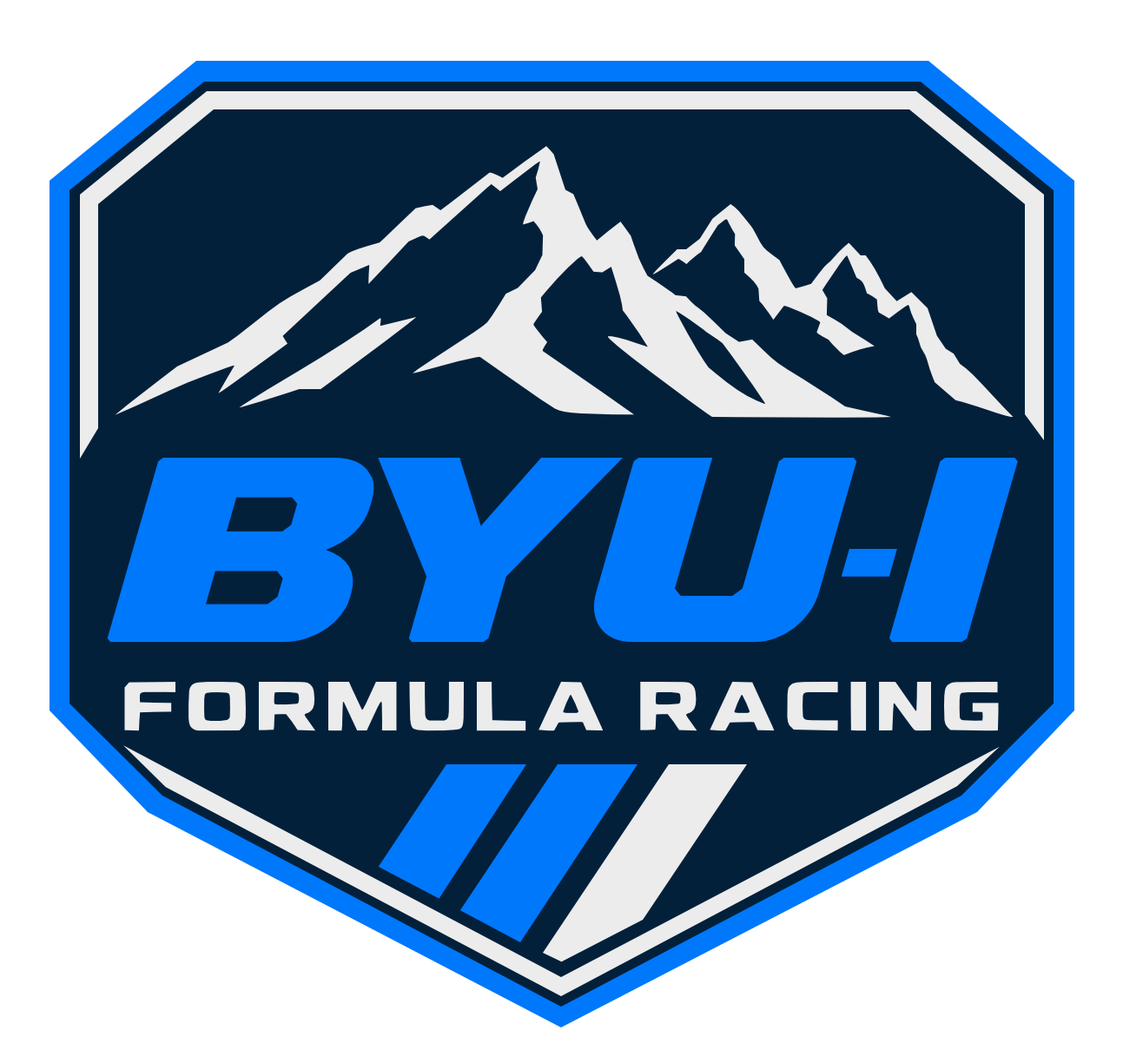
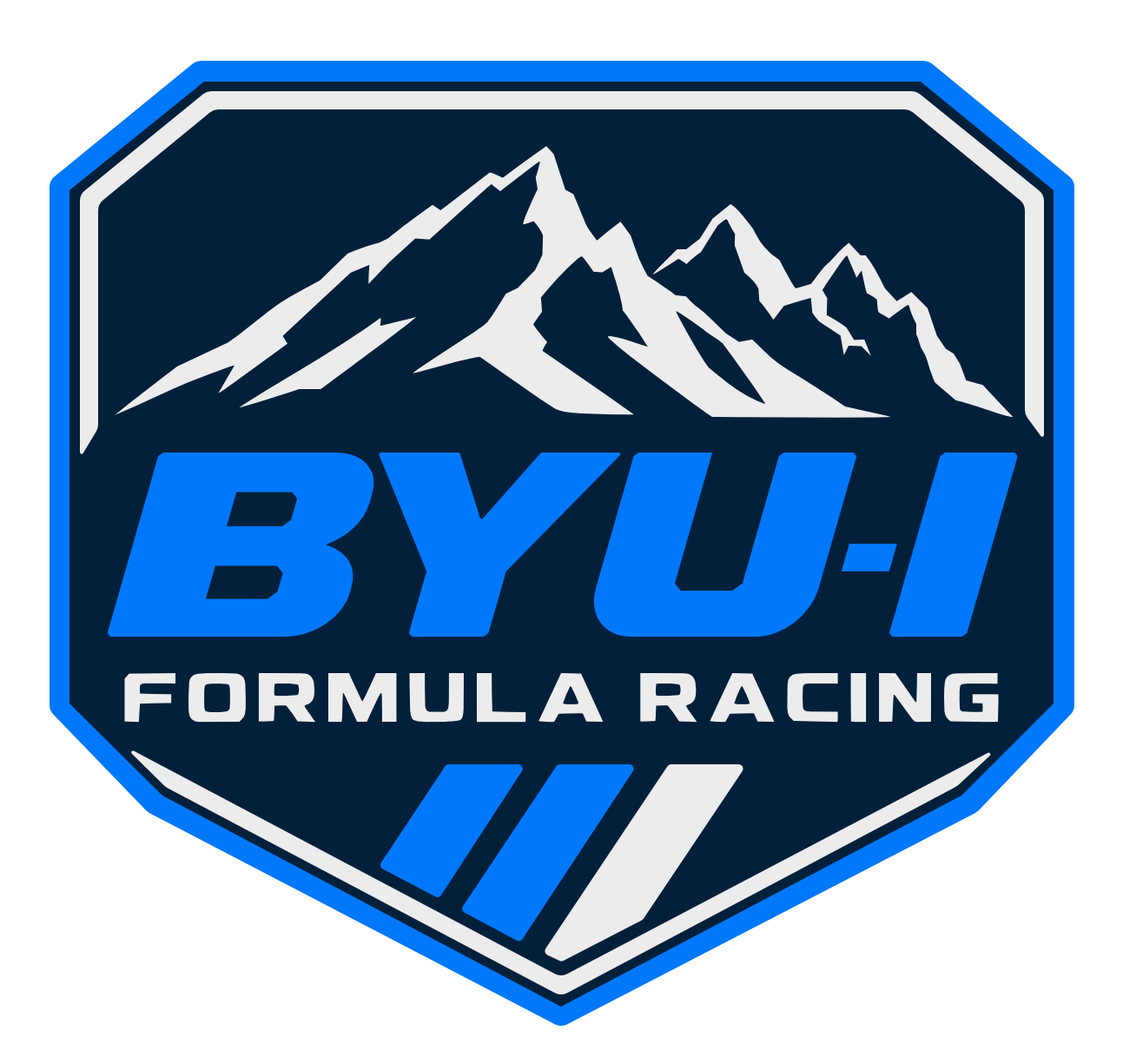
Optimize responsive photos and refresh hero and branding

diff --git a/about/index.html b/about/index.html
@@ -51,7 +51,7 @@
           <p class="lead">Unique to the BYU-I Formula Team is our commitment to both our studies and our dreams.</p>
         </div>
         <figure class="photo-figure">
-          <img class="team-photo" src="../assets/images/about/formula-car-tilt-test.webp" alt="A blue and white formula car tilted on a test platform with a helmeted driver strapped in" width="1375" height="1441" loading="lazy" decoding="async">
+          <img class="team-photo" src="../assets/images/about/optimized/formula-car-tilt-test-1375.webp" srcset="../assets/images/about/optimized/formula-car-tilt-test-480.webp 480w, ../assets/images/about/optimized/formula-car-tilt-test-800.webp 800w, ../assets/images/about/optimized/formula-car-tilt-test-1200.webp 1200w, ../assets/images/about/optimized/formula-car-tilt-test-1375.webp 1375w" sizes="auto, (max-width: 767px) calc(100vw - 2.5rem), (max-width: 1023px) calc(50vw - 2.5rem), (max-width: 1296px) calc(50vw - 4rem), 584px" alt="A blue and white formula car tilted on a test platform with a helmeted driver strapped in" width="1375" height="1441" loading="lazy" decoding="async">
         </figure>
       </div>
     </section>
@@ -86,7 +86,7 @@
             <div class="discipline-screen" id="mechanical-panel">
               <p class="discipline-label">01 / MECHANICAL</p>
               <h3>DESIGN. BUILD. TEST.</h3>
-              <img class="team-photo" src="../assets/images/about/mechanical-design-team.png" alt="Four students working together on laptops and a tablet around a classroom table" width="2602" height="1432" loading="lazy" decoding="async">
+              <img class="team-photo" src="../assets/images/about/optimized/mechanical-design-team-1600.webp" srcset="../assets/images/about/optimized/mechanical-design-team-480.webp 480w, ../assets/images/about/optimized/mechanical-design-team-800.webp 800w, ../assets/images/about/optimized/mechanical-design-team-1200.webp 1200w, ../assets/images/about/optimized/mechanical-design-team-1600.webp 1600w" sizes="auto, (max-width: 767px) calc(100vw - 2.5rem), (max-width: 1023px) calc(100vw - 3rem), (max-width: 1296px) calc(100vw - 6rem), 1200px" alt="Four students working together on laptops and a tablet around a classroom table" width="1600" height="881" loading="lazy" decoding="async">
             </div>
             <p class="discipline-copy">Mechanical work connects design ideas with the demands of a working car. From component layouts and CAD models to testing and refinement, the focus is on how parts fit, move, and perform together.</p>
           </div>
@@ -94,7 +94,7 @@
             <div class="discipline-screen" id="technical-panel">
               <p class="discipline-label">02 / TECHNICAL</p>
               <h3>MAKE IDEAS REAL.</h3>
-              <img class="team-photo" src="../assets/images/about/chassis-welding.png" alt="A student welding a formula-car chassis in the workshop as sparks fly from the frame" width="2739" height="1386" loading="lazy" decoding="async">
+              <img class="team-photo" src="../assets/images/about/optimized/chassis-welding-1600.webp" srcset="../assets/images/about/optimized/chassis-welding-480.webp 480w, ../assets/images/about/optimized/chassis-welding-800.webp 800w, ../assets/images/about/optimized/chassis-welding-1200.webp 1200w, ../assets/images/about/optimized/chassis-welding-1600.webp 1600w" sizes="auto, (max-width: 767px) calc(100vw - 2.5rem), (max-width: 1023px) calc(100vw - 3rem), (max-width: 1296px) calc(100vw - 6rem), 1200px" alt="A student welding a formula-car chassis in the workshop as sparks fly from the frame" width="1600" height="810" loading="lazy" decoding="async">
             </div>
             <p class="discipline-copy">Technical work turns drawings and plans into physical systems. Fabrication, assembly, and careful inspection bring the build together, with attention to safe workshop practices, clear procedures, and the details that make parts work as intended.</p>
           </div>
@@ -102,7 +102,7 @@
             <div class="discipline-screen" id="business-panel">
               <p class="discipline-label">03 / BUSINESS</p>
               <h3>PLAN. CONNECT. GROW.</h3>
-              <img class="team-photo" src="../assets/images/about/business-laptop-blurred.png" alt="Two students reviewing a laptop together in the workshop" width="1531" height="1027" loading="lazy" decoding="async">
+              <img class="team-photo" src="../assets/images/about/optimized/business-laptop-blurred-1531.webp" srcset="../assets/images/about/optimized/business-laptop-blurred-480.webp 480w, ../assets/images/about/optimized/business-laptop-blurred-800.webp 800w, ../assets/images/about/optimized/business-laptop-blurred-1200.webp 1200w, ../assets/images/about/optimized/business-laptop-blurred-1531.webp 1531w" sizes="auto, (max-width: 767px) calc(100vw - 2.5rem), (max-width: 1023px) calc(100vw - 3rem), (max-width: 1296px) calc(100vw - 6rem), 1200px" alt="Two students reviewing a laptop together in the workshop" width="1531" height="1027" loading="lazy" decoding="async">
             </div>
             <p class="discipline-copy">Business work keeps the project organised and connected. Planning, documentation, outreach, and in-kind partnerships help coordinate the people and resources behind the build while sharing the team’s work with the wider community.</p>
           </div>
@@ -110,7 +110,7 @@
             <div class="discipline-screen" id="electrical-panel">
               <p class="discipline-label">04 / ELECTRICAL</p>
               <h3>POWER THE PROJECT.</h3>
-              <img class="team-photo" src="../assets/images/about/electrical-workbench.png" alt="Three students examining wiring and electrical components on a worktable" width="1039" height="723" loading="lazy" decoding="async">
+              <img class="team-photo" src="../assets/images/about/optimized/electrical-workbench-1039.webp" srcset="../assets/images/about/optimized/electrical-workbench-480.webp 480w, ../assets/images/about/optimized/electrical-workbench-800.webp 800w, ../assets/images/about/optimized/electrical-workbench-1039.webp 1039w" sizes="auto, (max-width: 767px) calc(100vw - 2.5rem), (max-width: 1023px) calc(100vw - 3rem), (max-width: 1296px) calc(100vw - 6rem), 1200px" alt="Three students examining wiring and electrical components on a worktable" width="1039" height="723" loading="lazy" decoding="async">
             </div>
             <p class="discipline-copy">Electrical work connects power, wiring, sensing, and control. Understanding how low- and high-voltage systems interact helps guide thoughtful integration, troubleshooting, and testing, with careful attention to safety and communication across the team.</p>
           </div>
@@ -118,19 +118,15 @@
         </div>
       </div>
     </section>
-    <section class="section photo-section" aria-label="Engineering in focus">
-      <div class="container photo-grid">
-        <figure class="photo-figure" data-photo="fabrication">
-          <img class="team-photo" src="../assets/images/about/student-cad-design.png" alt="A student working on a CAD drawing on a laptop" width="2773" height="1843" loading="lazy" decoding="async">
-        </figure>
-        <figure class="photo-figure" data-photo="controls">
-          <img class="team-photo" src="../assets/images/about/students-reviewing-textbook.png" alt="Three students reviewing an open textbook together at a worktable" width="2752" height="1825" loading="lazy" decoding="async">
-        </figure>
-      </div>
-    </section>
     <!-- ABOUT 03 / PROJECT. Add confirmed milestones or measured data later. -->
     <section class="section" id="our-project" aria-labelledby="project-heading">
-      <div class="container car-grid">
+      <div class="container photo-grid project-grid">
+        <figure class="photo-figure" data-photo="fabrication">
+          <img class="team-photo" src="../assets/images/about/optimized/student-cad-design-1600.webp" srcset="../assets/images/about/optimized/student-cad-design-480.webp 480w, ../assets/images/about/optimized/student-cad-design-800.webp 800w, ../assets/images/about/optimized/student-cad-design-1200.webp 1200w, ../assets/images/about/optimized/student-cad-design-1600.webp 1600w" sizes="auto, (max-width: 767px) calc(100vw - 2.5rem), (max-width: 1023px) calc(50vw - 2.5rem), (max-width: 1296px) calc(50vw - 4rem), 584px" alt="A student working on a CAD drawing on a laptop" width="1600" height="1063" loading="lazy" decoding="async">
+        </figure>
+        <figure class="photo-figure" data-photo="controls">
+          <img class="team-photo" src="../assets/images/about/optimized/students-reviewing-textbook-1600.webp" srcset="../assets/images/about/optimized/students-reviewing-textbook-480.webp 480w, ../assets/images/about/optimized/students-reviewing-textbook-800.webp 800w, ../assets/images/about/optimized/students-reviewing-textbook-1200.webp 1200w, ../assets/images/about/optimized/students-reviewing-textbook-1600.webp 1600w" sizes="auto, (max-width: 767px) calc(100vw - 2.5rem), (max-width: 1023px) calc(50vw - 2.5rem), (max-width: 1296px) calc(50vw - 4rem), 584px" alt="Three students reviewing an open textbook together at a worktable" width="1600" height="1061" loading="lazy" decoding="async">
+        </figure>
         <div class="model-panel">
           <span class="eyebrow">BYU-I / Electric formula</span>
           <span class="model-name">VIKING.1</span>

diff --git a/index.html b/index.html
@@ -50,7 +50,7 @@
     <section class="section photo-section" aria-label="The car in pictures">
       <div class="container photo-stack">
         <figure class="photo-figure photo-wide car-render" data-photo="car">
-          <img class="team-photo" src="assets/images/home/formula-car-concept.webp" alt="Front view of a blue and white formula car concept render" width="1920" height="1080" loading="lazy" decoding="async">
+          <img class="team-photo" src="assets/images/home/optimized/formula-car-concept-1600.webp" srcset="assets/images/home/optimized/formula-car-concept-480.webp 480w, assets/images/home/optimized/formula-car-concept-800.webp 800w, assets/images/home/optimized/formula-car-concept-1200.webp 1200w, assets/images/home/optimized/formula-car-concept-1600.webp 1600w" sizes="auto, (max-width: 767px) calc(100vw - 2.5rem), (max-width: 1023px) calc(100vw - 3rem), (max-width: 1296px) calc(100vw - 6rem), 1200px" alt="Front view of a blue and white formula car concept render" width="1600" height="900" loading="lazy" decoding="async">
         </figure>
       </div>
     </section>
@@ -71,10 +71,10 @@
     <section class="section photo-section" aria-label="Life in the workshop">
       <div class="container photo-grid">
         <figure class="photo-figure" data-photo="team">
-          <img class="team-photo team-event-photo" src="assets/images/home/team-with-chassis-blurred.png" alt="BYU-I Formula Racing team members gathered around a car chassis at an indoor event" width="1085" height="1449" loading="lazy" decoding="async">
+          <img class="team-photo team-event-photo" src="assets/images/home/optimized/team-with-chassis-blurred-1085.webp" srcset="assets/images/home/optimized/team-with-chassis-blurred-480.webp 480w, assets/images/home/optimized/team-with-chassis-blurred-800.webp 800w, assets/images/home/optimized/team-with-chassis-blurred-1085.webp 1085w" sizes="auto, (max-width: 767px) calc(100vw - 2.5rem), (max-width: 1023px) calc(50vw - 2.5rem), (max-width: 1296px) calc(50vw - 4rem), 584px" alt="BYU-I Formula Racing team members gathered around a car chassis at an indoor event" width="1085" height="1449" loading="lazy" decoding="async">
         </figure>
         <figure class="photo-figure" data-photo="workshop">
-          <img class="team-photo" src="assets/images/home/car-in-workshop.jpeg" alt="A team member seated in the blue, white, and black formula car in the workshop" width="4032" height="3024" loading="lazy" decoding="async">
+          <img class="team-photo" src="assets/images/home/optimized/car-in-workshop-1600.webp" srcset="assets/images/home/optimized/car-in-workshop-480.webp 480w, assets/images/home/optimized/car-in-workshop-800.webp 800w, assets/images/home/optimized/car-in-workshop-1200.webp 1200w, assets/images/home/optimized/car-in-workshop-1600.webp 1600w" sizes="auto, (max-width: 767px) calc(100vw - 2.5rem), (max-width: 1023px) calc(50vw - 2.5rem), (max-width: 1296px) calc(50vw - 4rem), 584px" alt="A team member seated in the blue, white, and black formula car in the workshop" width="1600" height="1200" loading="lazy" decoding="async">
         </figure>
       </div>
     </section>
@@ -90,7 +90,7 @@
         <div class="subteam-slides" id="subteam-slides">
           <article class="subteam-slide" data-subteam-slide aria-labelledby="subteam-mechanical">
             <figure class="photo-figure" data-photo="fabrication">
-              <img class="team-photo" src="assets/images/home/mechanical-chassis-cad.webp" alt="A student reviews a formula-car chassis CAD model on a laptop in the workshop" width="1580" height="995" loading="lazy" decoding="async">
+              <img class="team-photo" src="assets/images/home/optimized/mechanical-chassis-cad-1580.webp" srcset="assets/images/home/optimized/mechanical-chassis-cad-480.webp 480w, assets/images/home/optimized/mechanical-chassis-cad-800.webp 800w, assets/images/home/optimized/mechanical-chassis-cad-1200.webp 1200w, assets/images/home/optimized/mechanical-chassis-cad-1580.webp 1580w" sizes="auto, (max-width: 767px) calc(100vw - 2.5rem), (max-width: 1023px) calc(50vw - 2.5rem), (max-width: 1296px) calc(50vw - 4rem), 584px" alt="A student reviews a formula-car chassis CAD model on a laptop in the workshop" width="1580" height="995" loading="lazy" decoding="async">
             </figure>
             <div class="subteam-copy">
               <h3 id="subteam-mechanical">MECHANICAL</h3>
@@ -99,7 +99,7 @@
           </article>
           <article class="subteam-slide" data-subteam-slide aria-labelledby="subteam-technical">
             <figure class="photo-figure">
-              <img class="team-photo" src="assets/images/home/technical-workshop-grinding.webp" alt="Two students wearing safety glasses work together as one uses an angle grinder on metal tubing in the workshop" width="1600" height="1040" loading="lazy" decoding="async">
+              <img class="team-photo" src="assets/images/home/optimized/technical-workshop-grinding-1600.webp" srcset="assets/images/home/optimized/technical-workshop-grinding-480.webp 480w, assets/images/home/optimized/technical-workshop-grinding-800.webp 800w, assets/images/home/optimized/technical-workshop-grinding-1200.webp 1200w, assets/images/home/optimized/technical-workshop-grinding-1600.webp 1600w" sizes="auto, (max-width: 767px) calc(100vw - 2.5rem), (max-width: 1023px) calc(50vw - 2.5rem), (max-width: 1296px) calc(50vw - 4rem), 584px" alt="Two students wearing safety glasses work together as one uses an angle grinder on metal tubing in the workshop" width="1600" height="1040" loading="lazy" decoding="async">
             </figure>
             <div class="subteam-copy">
               <h3 id="subteam-technical">TECHNICAL</h3>
@@ -108,7 +108,7 @@
           </article>
           <article class="subteam-slide" data-subteam-slide aria-labelledby="subteam-business">
             <figure class="photo-figure" data-photo="operations">
-              <img class="team-photo" src="assets/images/home/business-team-planning.webp" alt="Students discuss team structure and project planning at a workshop whiteboard" width="1600" height="1041" loading="lazy" decoding="async">
+              <img class="team-photo" src="assets/images/home/optimized/business-team-planning-1600.webp" srcset="assets/images/home/optimized/business-team-planning-480.webp 480w, assets/images/home/optimized/business-team-planning-800.webp 800w, assets/images/home/optimized/business-team-planning-1200.webp 1200w, assets/images/home/optimized/business-team-planning-1600.webp 1600w" sizes="auto, (max-width: 767px) calc(100vw - 2.5rem), (max-width: 1023px) calc(50vw - 2.5rem), (max-width: 1296px) calc(50vw - 4rem), 584px" alt="Students discuss team structure and project planning at a workshop whiteboard" width="1600" height="1041" loading="lazy" decoding="async">
             </figure>
             <div class="subteam-copy">
               <h3 id="subteam-business">BUSINESS</h3>
@@ -117,7 +117,7 @@
           </article>
           <article class="subteam-slide" data-subteam-slide aria-labelledby="subteam-electrical">
             <figure class="photo-figure" data-photo="controls">
-              <img class="team-photo" src="assets/images/home/electrical-team-electronics.webp" alt="Two students discuss electronic components at a workbench, with one holding a small circuit assembly" width="1376" height="1143" loading="lazy" decoding="async">
+              <img class="team-photo" src="assets/images/home/optimized/electrical-team-electronics-1376.webp" srcset="assets/images/home/optimized/electrical-team-electronics-480.webp 480w, assets/images/home/optimized/electrical-team-electronics-800.webp 800w, assets/images/home/optimized/electrical-team-electronics-1200.webp 1200w, assets/images/home/optimized/electrical-team-electronics-1376.webp 1376w" sizes="auto, (max-width: 767px) calc(100vw - 2.5rem), (max-width: 1023px) calc(50vw - 2.5rem), (max-width: 1296px) calc(50vw - 4rem), 584px" alt="Two students discuss electronic components at a workbench, with one holding a small circuit assembly" width="1376" height="1143" loading="lazy" decoding="async">
             </figure>
             <div class="subteam-copy">
               <h3 id="subteam-electrical">ELECTRICAL</h3>

diff --git a/assets/css/site.css b/assets/css/site.css
@@ -127,12 +127,12 @@ details[open] > summary .dropdown-chevron { transform: rotate(180deg); }
 .hero h1, .hero h2, .hero h3 { color: white; }
 /* Straight page dividers use the same stripe widths as the homepage diagonal. */
 .hero::after { content: ""; position: absolute; bottom: 0; right: 0; width: 100%; height: 1rem; background: linear-gradient(to bottom, var(--brand-blue) 0 .5rem, var(--brand-navy) .5rem .75rem, var(--racing-silver) .75rem); pointer-events: none; }
-.home-hero { padding-bottom: max(11rem, calc(9vw + 7rem)); border-bottom: 0; }
-.home-hero::before { content: ""; position: absolute; inset: 0; background-image: linear-gradient(90deg, #031f3de6 0%, #031f3db3 35%, #031f3d66 60%, #031f3d1a 100%), url("../images/home/team-hero.jpeg"); background-size: cover; background-position: center 35%; pointer-events: none; }
+.home-hero { padding-bottom: max(11rem, calc(9vw + 7rem)); border-bottom: 0; min-height: calc(var(--header-offset) + 28vw + 9rem); }
+.home-hero::before { content: ""; position: absolute; inset: 0; background-image: linear-gradient(90deg, #031f3de6 0%, #031f3db3 35%, #031f3d66 60%, #031f3d1a 100%), url("../images/home/byui-formula-team-hero.webp"); background-size: 100% 100%, cover; background-position: center, center 42%; background-repeat: no-repeat; pointer-events: none; }
 /* Draw the diagonal directly with one-pixel transitions to soften its edges. */
 .home-hero::after {
   width: 100%; height: calc(9vw + 1.5rem); bottom: 0;
-  background: linear-gradient(175deg,
+  background: linear-gradient(var(--home-divider-angle, 175deg),
     transparent calc(50% - .5rem - 1px), var(--brand-blue) calc(50% - .5rem),
     var(--brand-blue) calc(50% - 1px), var(--brand-navy) 50%,
     var(--brand-navy) calc(50% + .25rem - 1px), var(--racing-silver) calc(50% + .25rem),
@@ -279,6 +279,9 @@ a.sponsor-entry:hover { border-color: var(--link); }
 
 /* Photo slots keep their proportions when configured images replace placeholders. */
 .photo-grid { display: grid; grid-template-columns: 1fr 1fr; gap: 2rem; }
+.project-grid { align-items: center; }
+.project-grid > * { min-width: 0; }
+.project-grid .model-panel { display: flex; flex-direction: column; justify-content: center; }
 .photo-stack { display: grid; }
 .photo-section + .section { padding-top: 0; }
 .photo-section .photo-placeholder { display: flex; align-items: center; justify-content: center; text-align: center; border: 1px solid #476580; background: linear-gradient(135deg, #ffffff05, transparent 65%), var(--brand-navy); }
@@ -366,9 +369,22 @@ a.social-link:hover { color: white; background: var(--surface); }
 .footer-bottom p { margin-bottom: 0; }
 
 /* 07 / Tablet and phone layouts */
-/* Stop ultrawide screens enlarging the photo until faces leave the hero. */
+/* Let the homepage fill wide screens while keeping the group in the crop. */
 @media (min-width: 100rem) {
-  .home-hero::before { max-width: 100rem; margin-inline: auto; mask-image: linear-gradient(90deg, transparent, #000 6%, #000 94%, transparent); }
+  .home-hero {
+    --home-divider-angle: 177deg;
+    min-height: max(clamp(44rem, 33.333vw, 80rem), calc(var(--header-offset) + 28vw + 9rem));
+    padding-top: clamp(11rem, 8.5vw, 21rem);
+    padding-bottom: clamp(6rem, 4.5vw, 12rem);
+  }
+  .home-hero > .container { width: 90%; }
+  .home-hero .hero-copy { max-width: 78rem; }
+  .home-hero .hero-copy h1 { font-size: clamp(5rem, 3.6vw, 8rem); line-height: 1.02; }
+  .home-hero::before {
+    background-image: linear-gradient(90deg, #031f3df2 0%, #031f3dcc 24%, #031f3d66 48%, #031f3d1a 75%, #031f3d33 100%), url("../images/home/byui-formula-team-hero.webp");
+    background-position: center, center 42%;
+  }
+  .home-hero::after { height: clamp(6rem, 6vw, 15rem); }
 }
 @media (max-width: 1023px) {
   .hero { padding-top: 10rem; }
@@ -389,7 +405,7 @@ a.social-link:hover { color: white; background: var(--surface); }
   .menu-top { padding-bottom: .5rem; }
   .section { padding-block: 4rem; }
   .hero { padding-top: 9rem; }
-  .home-hero::before { background-image: linear-gradient(90deg, #031f3db3, #031f3d73), url("../images/home/team-hero.jpeg"); background-position: 60% center; }
+  .home-hero::before { background-image: linear-gradient(90deg, #031f3db3, #031f3d73), url("../images/home/byui-formula-team-hero.webp"); background-position: center, 60% 42%; }
   .hero-grid { grid-template-columns: 1fr; gap: 3rem; padding-bottom: 2rem; }
   .hero-copy .lead { max-width: 42ch; }
   .hero-copy h1 { font-size: clamp(3rem, 10vw, 4.5rem); }

diff --git a/assets/js/config.js b/assets/js/config.js
@@ -21,12 +21,12 @@ window.SITE_CONFIG = Object.freeze({
   // Empty src keeps the existing HTML image or descriptive text card.
   photos: {
     workshop: { src: "", alt: "", caption: "" },
-    car: { src: "assets/images/home/formula-car-concept.webp", alt: "Front view of a blue and white formula car concept render", caption: "" },
+    car: { src: "assets/images/home/optimized/formula-car-concept-1600.webp", sources: [{ src: "assets/images/home/optimized/formula-car-concept-480.webp", width: 480 }, { src: "assets/images/home/optimized/formula-car-concept-800.webp", width: 800 }, { src: "assets/images/home/optimized/formula-car-concept-1200.webp", width: 1200 }, { src: "assets/images/home/optimized/formula-car-concept-1600.webp", width: 1600 }], alt: "Front view of a blue and white formula car concept render", caption: "" },
     team: { src: "", alt: "", caption: "" },
     fabrication: { src: "", alt: "", caption: "" },
     controls: { src: "", alt: "", caption: "" },
     operations: { src: "", alt: "", caption: "" },
-    partnership: { src: "assets/images/sponsors/team-around-formula-car.webp", alt: "A group gathered around a blue and white formula car with an exposed chassis in the workshop", caption: "" }
+    partnership: { src: "assets/images/sponsors/optimized/team-around-formula-car-1600.webp", sources: [{ src: "assets/images/sponsors/optimized/team-around-formula-car-480.webp", width: 480 }, { src: "assets/images/sponsors/optimized/team-around-formula-car-800.webp", width: 800 }, { src: "assets/images/sponsors/optimized/team-around-formula-car-1200.webp", width: 1200 }, { src: "assets/images/sponsors/optimized/team-around-formula-car-1600.webp", width: 1600 }], alt: "A group gathered around a blue and white formula car with an exposed chassis in the workshop", caption: "" }
   },
 
   // Only add sponsors who have approved public recognition. Examples in EDITING.md.

diff --git a/assets/js/site.js b/assets/js/site.js
@@ -209,9 +209,24 @@
   document.querySelectorAll("[data-photo]").forEach(figure => {
     const photo = config.photos?.[figure.dataset.photo];
     if (!photo?.alt || !safeURL(photo.src, true)) return;
+    const existing = figure.querySelector("img");
+    // Keep the responsive HTML image when config points to the same photo.
+    if (existing && new URL(existing.getAttribute("src"), document.baseURI).href === new URL(siteRoot + photo.src, document.baseURI).href) {
+      existing.alt = photo.alt;
+      if (photo.caption) {
+        const caption = figure.querySelector("figcaption") || document.createElement("figcaption");
+        caption.textContent = photo.caption;
+        figure.append(caption);
+      }
+      return;
+    }
     const img = document.createElement("img");
     img.className = "team-photo";
-    img.src = siteRoot + photo.src;
+    const sources = Array.isArray(photo.sources) ? photo.sources.filter(source => safeURL(source.src, true) && Number.isInteger(source.width) && source.width > 0) : [];
+    if (sources?.length) {
+      img.sizes = photo.sizes || existing?.sizes || "auto, (max-width: 767px) calc(100vw - 2.5rem), 1200px";
+      img.srcset = sources.map(source => `${siteRoot}${source.src} ${source.width}w`).join(", ");
+    }
     img.alt = photo.alt;
     img.width = 1200;
     img.height = 900;
@@ -225,6 +240,7 @@
         figure.append(caption);
       }
     }, { once: true });
+    img.src = siteRoot + photo.src;
     // Until a valid image has loaded, keep the honest placeholder visible.
   });
 

diff --git a/sponsors/index.html b/sponsors/index.html
@@ -136,7 +136,7 @@
     <section class="section photo-section" aria-label="Support in the workshop">
       <div class="container photo-stack">
         <figure class="photo-figure photo-wide" data-photo="partnership">
-          <img class="team-photo" src="../assets/images/sponsors/team-around-formula-car.webp" alt="A group gathered around a blue and white formula car with an exposed chassis in the workshop" width="3072" height="1728" loading="lazy" decoding="async">
+          <img class="team-photo" src="../assets/images/sponsors/optimized/team-around-formula-car-1600.webp" srcset="../assets/images/sponsors/optimized/team-around-formula-car-480.webp 480w, ../assets/images/sponsors/optimized/team-around-formula-car-800.webp 800w, ../assets/images/sponsors/optimized/team-around-formula-car-1200.webp 1200w, ../assets/images/sponsors/optimized/team-around-formula-car-1600.webp 1600w" sizes="auto, (max-width: 767px) calc(100vw - 2.5rem), (max-width: 1023px) calc(100vw - 3rem), (max-width: 1296px) calc(100vw - 6rem), 1200px" alt="A group gathered around a blue and white formula car with an exposed chassis in the workshop" width="1600" height="900" loading="lazy" decoding="async">
         </figure>
       </div>
     </section>

diff --git a/contact/index.html b/contact/index.html
@@ -107,7 +107,7 @@
     <section class="section photo-section" aria-label="Meet the team">
       <div class="container photo-stack">
         <figure class="photo-figure photo-wide" data-photo="team">
-          <img class="team-photo" src="../assets/images/contact/team-workshop-discussion.png" alt="Three students talking beside a formula car chassis in the workshop" width="2767" height="1594" loading="lazy" decoding="async">
+          <img class="team-photo" src="../assets/images/contact/optimized/team-workshop-discussion-1600.webp" srcset="../assets/images/contact/optimized/team-workshop-discussion-480.webp 480w, ../assets/images/contact/optimized/team-workshop-discussion-800.webp 800w, ../assets/images/contact/optimized/team-workshop-discussion-1200.webp 1200w, ../assets/images/contact/optimized/team-workshop-discussion-1600.webp 1600w" sizes="auto, (max-width: 767px) calc(100vw - 2.5rem), (max-width: 1023px) calc(100vw - 3rem), (max-width: 1296px) calc(100vw - 6rem), 1200px" alt="Three students talking beside a formula car chassis in the workshop" width="1600" height="922" loading="lazy" decoding="async">
         </figure>
       </div>
     </section>

diff --git a/scripts/optimize_photos.py b/scripts/optimize_photos.py
@@ -1,0 +1,56 @@
+#!/usr/bin/env python3
+"""Regenerate website photo copies. Optional editing tool; requires Pillow.
+
+Run with: py scripts/optimize_photos.py
+Original files are read only. No image tooling is required to serve the site.
+"""
+from pathlib import Path
+
+from PIL import Image, ImageOps
+
+ROOT = Path(__file__).resolve().parents[1]
+PHOTOS = (
+    "home/formula-car-concept.webp",
+    "home/team-with-chassis-blurred.png",
+    "home/car-in-workshop.jpeg",
+    "home/mechanical-chassis-cad.webp",
+    "home/technical-workshop-grinding.webp",
+    "home/business-team-planning.webp",
+    "home/electrical-team-electronics.webp",
+    "about/formula-car-tilt-test.webp",
+    "about/mechanical-design-team.png",
+    "about/chassis-welding.png",
+    "about/business-laptop-blurred.png",
+    "about/electrical-workbench.png",
+    "about/student-cad-design.png",
+    "about/students-reviewing-textbook.png",
+    "contact/team-workshop-discussion.png",
+    "sponsors/team-around-formula-car.webp",
+)
+
+
+def optimize():
+    original_bytes = largest_bytes = 0
+    for name in PHOTOS:
+        source = ROOT / "assets/images" / name
+        destination = source.parent / "optimized"
+        destination.mkdir(exist_ok=True)
+        with Image.open(source) as original:
+            image = ImageOps.exif_transpose(original)
+            image = image.convert("RGBA" if "A" in image.getbands() else "RGB")
+            maximum = min(image.width, 1600)
+            widths = sorted({min(width, maximum) for width in (480, 800, 1200, maximum)})
+            for width in widths:
+                height = round(image.height * width / image.width)
+                copy = image.resize((width, height), Image.Resampling.LANCZOS)
+                target = destination / f"{source.stem}-{width}.webp"
+                copy.save(target, "WEBP", quality=82, method=6)
+            size = target.stat().st_size
+            original_bytes += source.stat().st_size
+            largest_bytes += size
+            print(f"{name}: {source.stat().st_size / 1024:.0f} KB -> {size / 1024:.0f} KB ({maximum}px)")
+    print(f"Largest copies: {largest_bytes / 1024 / 1024:.2f} MiB vs {original_bytes / 1024 / 1024:.2f} MiB originals")
+
+
+if __name__ == "__main__":
+    optimize()

diff --git a/docs/EDITING.md b/docs/EDITING.md
@@ -182,11 +182,17 @@ When served over HTTP or HTTPS, `site.js` adds low-priority document prefetch hi
 
 ## Optimized images
 
-The concept render has a lossless WebP copy at `assets/images/home/formula-car-concept.webp`. Its original PNG remains intact at `assets/images/sources/formula-car-concept-original.png`. The original team photo is retained at `assets/images/sources/team-with-chassis-original.webp`. The supplied logos are already WebP and are copied without resizing, cropping, or recompression.
+Published team photos use WebP copies in each page's `assets/images/<page>/optimized/` folder. Originals are retained for editing, including the PNG/JPEG files and originals in `sources/`. The copies are 480, 800, 1200, and up to 1600 pixels wide, without enlarging smaller originals. HTML uses `srcset` and `sizes` so phones can download smaller copies; `auto` sizes uses the actual lazy-loaded image width where supported, with explicit layout sizes as a fallback. The homepage hero background uses the full-resolution `assets/images/home/byui-formula-team-hero.webp` (3720 x 2795, WebP quality 95) at all screen sizes. Its original `byui-formula-team-hero.png` is retained unchanged alongside it. This replaces the deleted `team-hero.jpeg`; older generated hero WebP copies are retained but unused. The taller photo fills the hero behind the fixed navigation, with a 42% vertical focal position and overlaid text on mobile. The hero is excluded from the photo optimization script; regenerate its WebP from the PNG at full resolution with Pillow using `image.save(target, "WEBP", quality=95, method=6)`. Logos and brand-source assets are unchanged.
+
+To regenerate the copies after editing an original, run `py scripts/optimize_photos.py` (or `python scripts/optimize_photos.py`). This optional editing script requires Pillow; the website itself still needs no build step or dependencies. If replacing an original with different dimensions, update the HTML `srcset` width descriptors, fallback `src`, and intrinsic `width`/`height` to match the generated files. Each photo's fallback `src` points to its largest optimized copy.
+
+Configured photo overrides can optionally include `sources: [{ src: "assets/images/home/optimized/workshop-team-480.webp", width: 480 }, ...]` and a `sizes` string. All paths stay relative to the site root. When config points to the existing HTML photo, the HTML image and its responsive attributes are preserved; edit that image's alt text and caption directly in HTML as well as in config.
+
+The concept render has a lossless WebP copy at `assets/images/home/formula-car-concept.webp`. Its original PNG remains intact at `assets/images/sources/formula-car-concept-original.png`. The original team photo is retained at `assets/images/sources/team-with-chassis-original.webp`. The menu and footer logos use lossless WebP copies of the supplied rounded PNG artwork, without resizing or cropping; both PNG originals are retained in `assets/images/shared/`.
 
 ## Current logo library
 
-The header uses `combined-crest.webp` (1293 × 1217). The footer, including the fallback HTML in all four pages, uses `crest-horizontal.webp` (1983 × 793). `small-crest.webp` (1293 × 1216) supplies the favicon and touch icon.
+The rounded menu crest uses `combined-crest.png` as its retained original and `combined-crest.webp` on the site (1293 × 1217). The rounded footer logo, including the fallback HTML in all four pages, uses `crest-horizontal.webp`, with `crest-horizontal.png` retained as its original (1983 × 793). `small-crest.webp` (1293 × 1216) supplies the favicon and touch icon.
 
 The existing `.brand-lockup` and `.footer-logo` rules in `site.css` retain the header and footer sizing, spacing, responsive behavior, and proportional image fitting. Intrinsic HTML image dimensions match the new artwork. Superseded logo files and their references have been removed; the original brand guide, palette, tokens, and font licenses remain intact.
 

diff --git a/docs/EMAIL-SIGNATURE.md b/docs/EMAIL-SIGNATURE.md
@@ -6,11 +6,11 @@ The standalone [HTML signature](email-signature.html) uses the supplied custom `
 
 | Purpose | Repository file | Public HTTPS URL after deployment |
 | --- | --- | --- |
-| Original horizontal logo | `assets/images/shared/crest-horizontal.webp` | Existing website artwork; keep unchanged |
+| Original horizontal logo | `assets/images/shared/crest-horizontal.webp` | Current website artwork; separate from the signature asset |
 | Custom transparent PNG, 800 × 320, approximately 76 KiB | `assets/images/email-signature.png` | https://byui-racing.com/assets/images/email-signature.png |
 | Signature to copy into Outlook | `docs/email-signature.html` | https://byui-racing.com/docs/email-signature.html |
 
-The PNG was proportionally resized from the supplied 1983 × 793 custom PNG and saved as an optimized RGBA PNG. Its transparency, full canvas, artwork, and built-in shaped backing are preserved; no extra rectangular background was added. The website's `crest-horizontal.webp` remains unchanged.
+The PNG was proportionally resized from the supplied 1983 × 793 custom PNG and saved as an optimized RGBA PNG. Its transparency, full canvas, artwork, and built-in shaped backing are preserved; no extra rectangular background was added. Website logo updates are separate from the hosted `email-signature.png` asset.
 
 Some email clients recolor HTML backgrounds in dark mode while leaving logo pixels unchanged. The custom artwork's own navy backing keeps the white “Formula Racing” lettering off the surrounding email background. Client behavior still varies; verify a received message in the affected Gmail and Outlook versions. See [Microsoft's guidance on email dark mode](https://learn.microsoft.com/en-us/dynamics365/customer-insights/journeys/email-dark-mode).
 

diff --git a/docs/DESIGN.md b/docs/DESIGN.md
@@ -5,7 +5,7 @@
 - `brand-source/brand-guide-v1.0.pdf`: the supplied working brand guide, preserved as-is.
 - `brand-source/palette.json`: the supplied machine-readable color/font palette, preserved as-is.
 - `assets/css/tokens.css`: the supplied token stylesheet, preserved as-is.
-- `assets/images/shared/combined-crest.webp`, `crest-horizontal.webp`, and `small-crest.webp`: refined supplied logos, copied unchanged. Superseded standalone logo assets have been removed.
+- `assets/images/shared/combined-crest.webp`, `crest-horizontal.webp`, and `small-crest.webp`: supplied logos; the rounded menu and footer artwork uses lossless WebP copies with original PNGs alongside them, while the small crest is unchanged. Superseded standalone logo assets have been removed.
 
 The identity follows the current supplied guide's **BYU-I Formula Racing** naming and **RAVN.1** project label. The guide is explicitly a proposed team system; it does not establish university approval.
 
